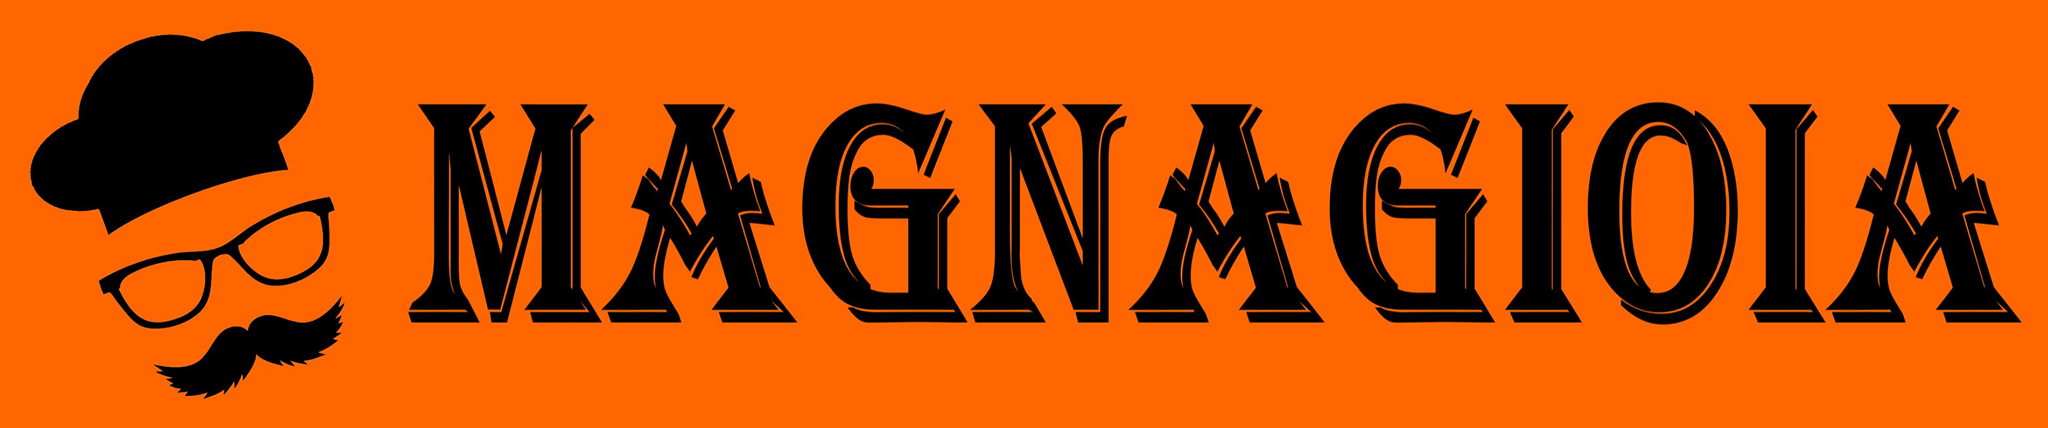
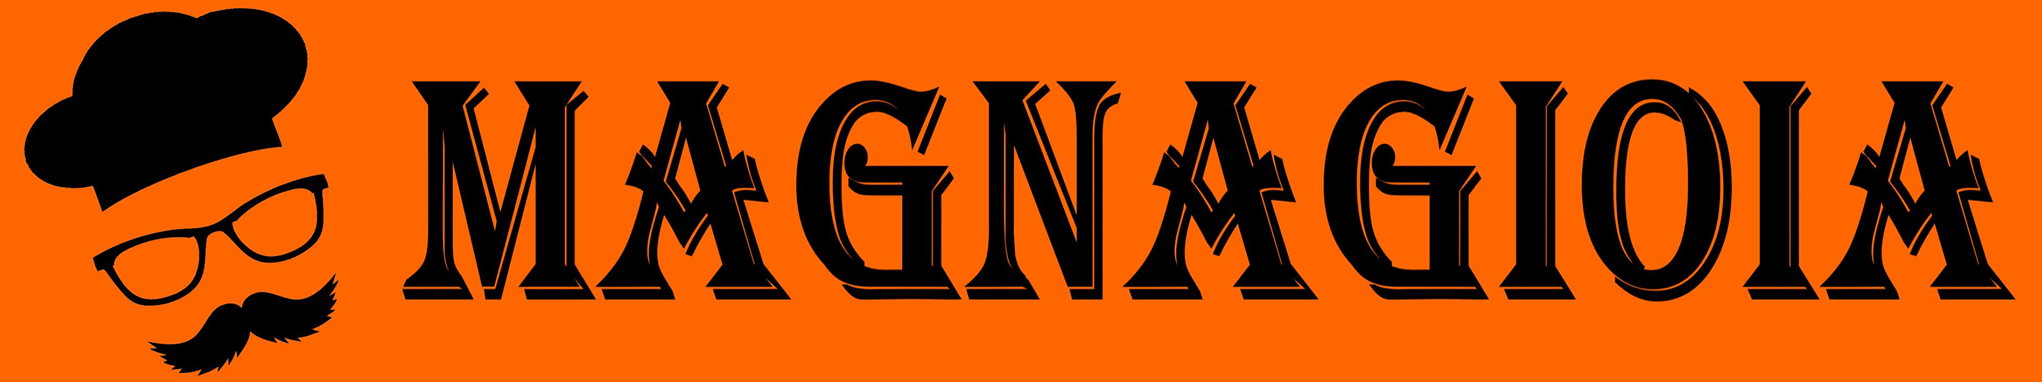
Alcune modifiche

diff --git a/web/style.css b/web/style.css
@@ -10,6 +10,7 @@ and open the template in the editor.
 
 #menu{
     max-width: 100%;
+    
     width: 100%; /* si adatta in larghezza a alle 
                     risoluzioni di tutti i browser */
     height: 160px;               /*cambia*/
@@ -20,14 +21,9 @@ and open the template in the editor.
     position: relative;
     width: 100%;
     height: 100%;
-    border: 1px solid black;
+   border: 1px solid black;
 }
 
-#testo{
-    weight: 100%
-    font_size: 1em;
-    line-height:1.125em;
-}
 
 #logo{
     width: 45.8%;
@@ -35,7 +31,7 @@ and open the template in the editor.
     max-height: 100%;
     position: absolute;
     margin: auto;
-    top: 40px;
+    top: 60px;
     left: 0;
     right: 0;
     bottom: 100px;
@@ -43,19 +39,28 @@ and open the template in the editor.
 
 #ricerca_per{
     position: absolute;
+    
+    top: 90px;
+    left: 0;
+    right: 0;
+    bottom: 0;
+    width: 345px;
+    max-width: 100%;
+    max-height: 100%;
     margin: auto;
     top: 100px;
     left: 0;
     right: 0;
-    bottom: 0;
-    font-size: 1em;
-    line-height: 1.125em;
-    
-    width: 345px;
-    max-width: 100%;
-    max-height: 100%;
-    
-   
+    bottom: 100px;
+    text-align:center; 
+}
+
+
+body{
+font-size: 1.5em;
+line-height: 1.5em;
+text-align: center;
+font-family: Georgia, serif;
 }
 
 #cerca{
@@ -73,7 +78,11 @@ and open the template in the editor.
 #contenitore{
     
     background-color: #ffa366;
+    width: 93.75%;
+    margin: 0 auto; /* per azzerare */
+    padding: 0; /* per azzerare */
 }
+
 
 .flexsearch--wrapper {
 	height: auto;
@@ -106,17 +115,18 @@ and open the template in the editor.
   padding: 0 10.041% 0 10.041%; /* Padding for other horizontal elements */
 }
 
+
 .flexsearch--input {
   -webkit-box-sizing: content-box;
 	-moz-box-sizing: content-box;
 	box-sizing: content-box;
- 	height: 30px;
+ 	height: 26px;
   padding: 0 46px 0 10px;
 	border-color: #000000;
   border-radius: 35px; /* (height/2) + border-width */
   border-style: solid;
 	border-width: 2px;
-  margin-top: 15px;
+  margin-top: 20px;
   color: #333;
   font-family: 'Helvetica', sans-serif;
 	font-size: 18px;
@@ -163,5 +173,4 @@ and open the template in the editor.
 input:-moz-placeholder {
   color: #888
 }
-
 
